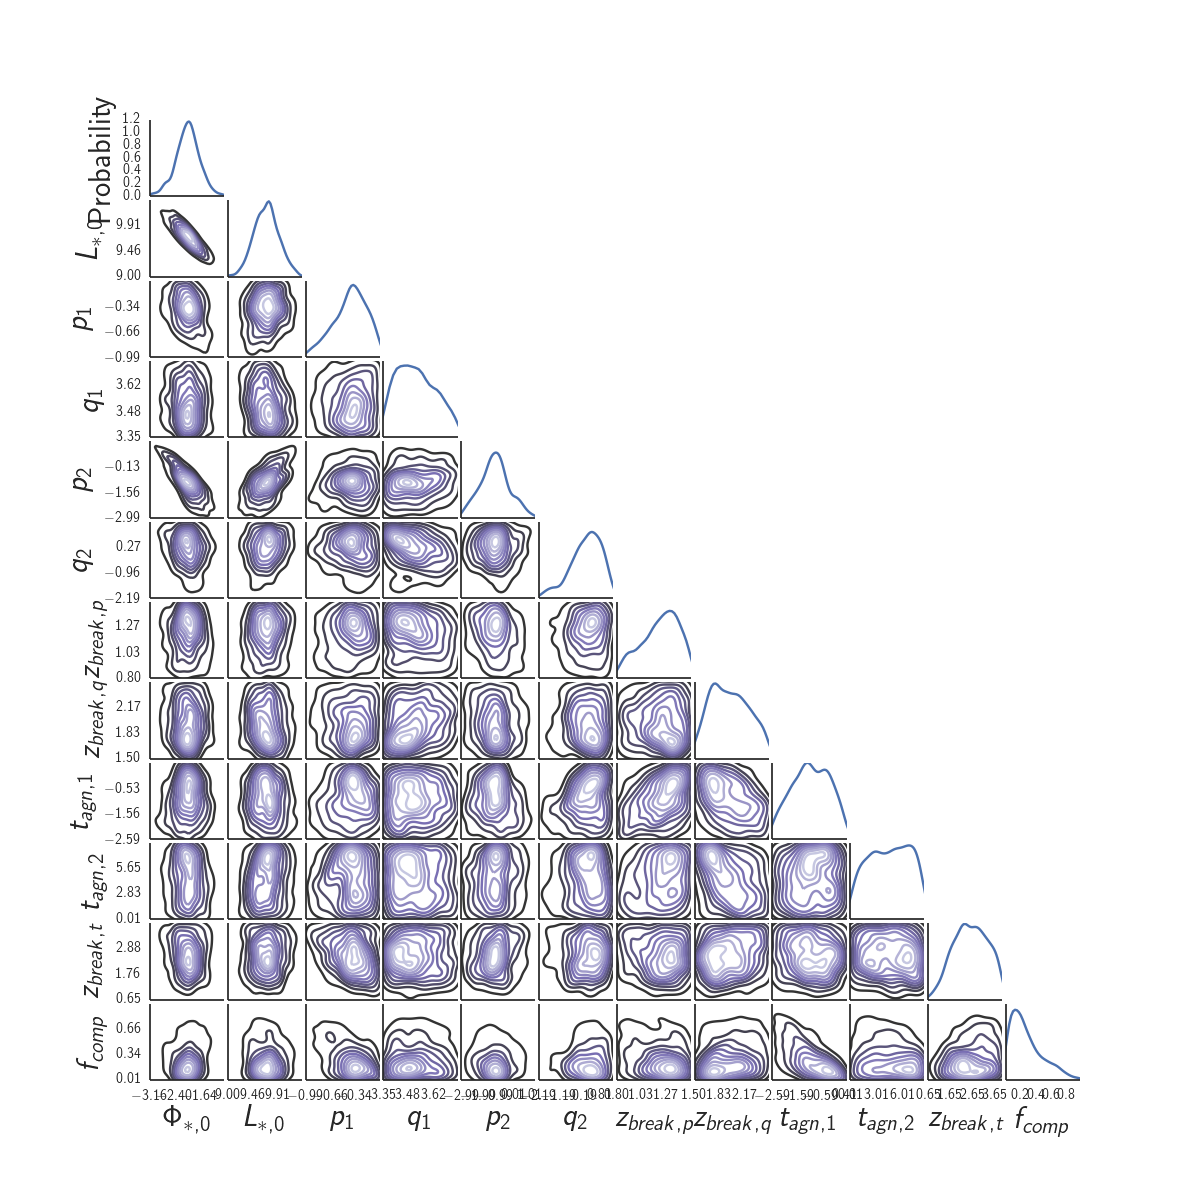
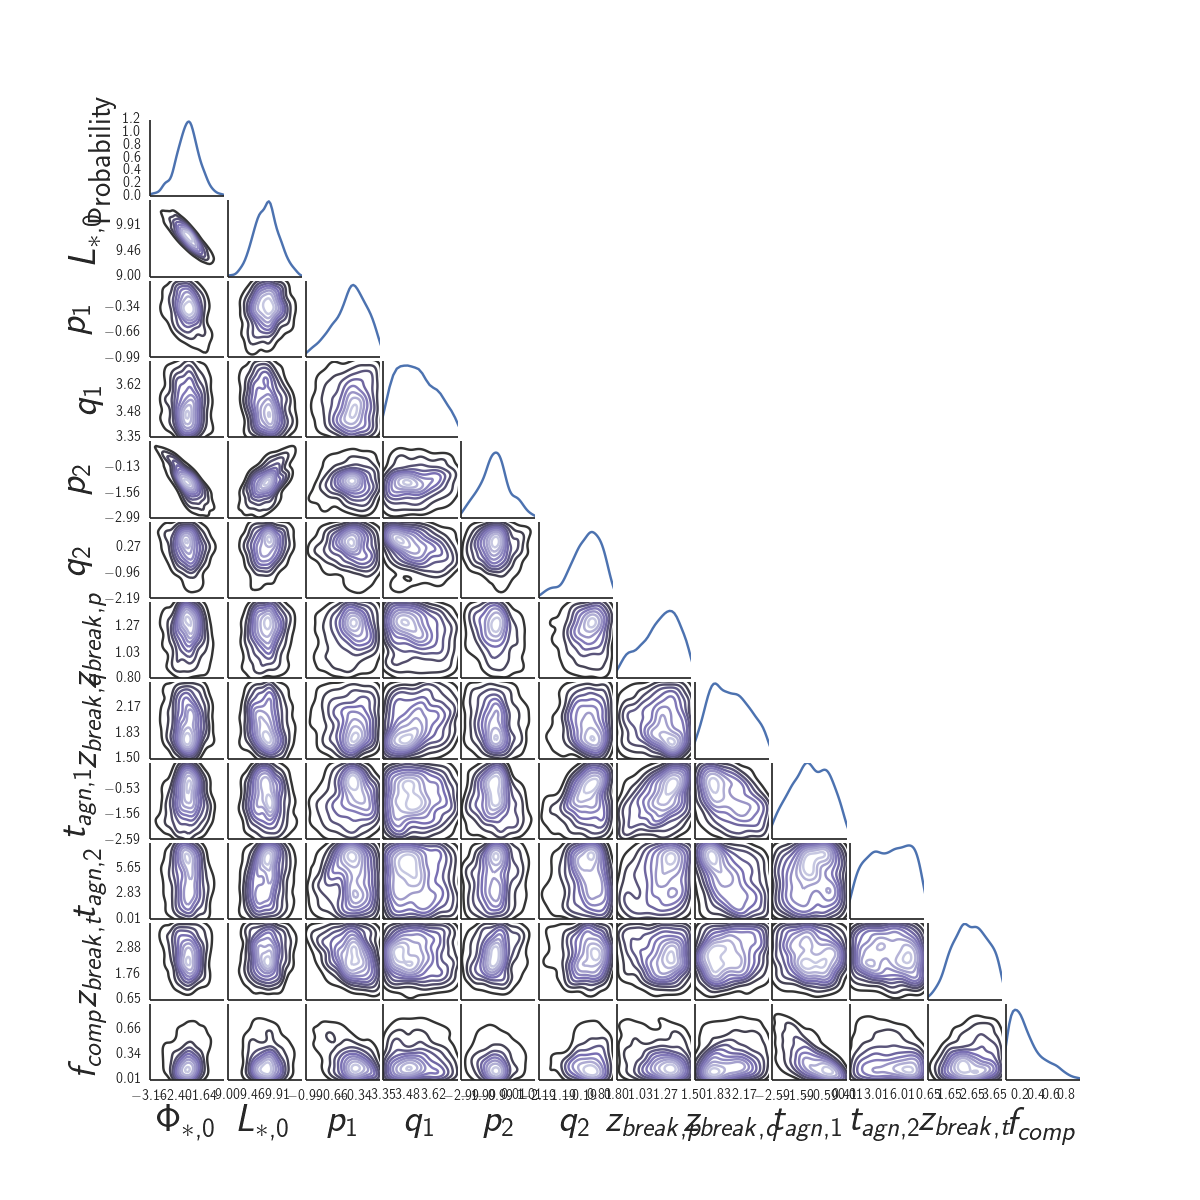
temp

diff --git a/Examples/SPIRE/run_analysis.py b/Examples/SPIRE/run_analysis.py
@@ -71,30 +71,32 @@ elif(field == 2):
     obsfile="/usr/local/surveysim/obs/L2-COSMOS_xID24_DR3.fits"
     #load limits and filters from pre-made model file
     mod.load("/usr/local/surveysim/model/spire_mips_model.fits")
-<<<<<<< HEAD
-    mod.filters[0].compN=2110.4
-    mod.filters[0].compB=0.111
-    mod.filters[0].compM=-0.894
+
+    mod.filters[2].setID("SPIRE_250")
+    mod.filters[1].limit=6.0
+    mod.filters[2].limit=6.0
+
+#<<<<<<< HEAD
+#    mod.filters[0].compN=2110.4
+#    mod.filters[0].compB=0.111
+#    mod.filters[0].compM=-0.894
 
     mod.filters[0].err=12.0 #assume 5sigma limit on the 24um
     mod.filters[1].err=3.0 #assume 250um 1sigma confusion
     mod.filters[2].err=3.0 #assume 250um 1sigma confusion
-=======
-<<<<<<< HEAD
-    # mod.filters[1].limit=0.1
-    # mod.filters[2].limit=0.1
+#=======
+#<<<<<<< HEAD
+#    # mod.filters[1].limit=0.1
+#    # mod.filters[2].limit=0.1
     mod.filters[0].compN=2110.4
     mod.filters[0].compB=0.111
     mod.filters[0].compM=-0.894
-=======
-    mod.filters[0].compN=1.0
-    mod.filters[0].compB=0.01
-    mod.filters[0].compM=0.08
->>>>>>> origin/master
-
-   # mod.filters[1].limit=0.1
-   # mod.filters[2].limit=0.1
->>>>>>> 9e961357219762991788e8d314c93394199dcecf
+#=======
+#    mod.filters[0].compN=1.0
+#    mod.filters[0].compB=0.01
+#    mod.filters[0].compM=0.08
+#>>>>>>> origin/master
+#>>>>>>> 9e961357219762991788e8d314c93394199dcecf
 else:
     raise ValueError("Invalid field")
 
@@ -292,8 +294,8 @@ if(model == 4 and lfForm == 0 and field == 2):
     simname="O"
 
 
-mfile=simname+"6_model.fits"
-outfile=simname+"6_output.fits"
+mfile=simname+"test_model.fits"
+outfile=simname+"test_output.fits"
 
 
 #parameters below should be the same regardless of model
@@ -315,9 +317,14 @@ mod.params['Alpha'].fixed=1
 mod.params['Beta'].value=0.5
 mod.params['Beta'].fixed=1
 
-mod.params['Phi0'].value=-2.239
-mod.params['Phi0'].pmin=-3.239
-mod.params['Phi0'].pmax=-0.739
+#mod.params['Phi0'].value=-2.239
+#mod.params['Phi0'].pmin=-3.239
+#mod.params['Phi0'].pmax=-0.739
+#mod.params['Phi0'].fixed=0
+
+mod.params['Phi0'].value=-2.7
+mod.params['Phi0'].pmin=-2.8
+mod.params['Phi0'].pmax=-2.6
 mod.params['Phi0'].fixed=0
 
 mod.params['L0'].value=9.949
@@ -334,6 +341,7 @@ mod.params['P'].pmin=-1.00
 mod.params['P'].pmax=-0.01
 mod.params['P'].fixed=0
 
+
 #AS-change
 mod.params['P'].pmin=-1.0
 mod.params['P'].max=-0.13
@@ -348,17 +356,27 @@ mod.params['P2'].fixed=0
 #mod.params['P2'].pmax=2
 
 mod.params['Q'].value=3.55
-mod.params['Q'].pmin=3.05
-mod.params['Q'].pmax=5.50
-mod.params['Q'].fixed=0
+#mod.params['Q'].pmin=3.05
+#mod.params['Q'].pmax=5.50
+#mod.params['Q'].fixed=0
 
 #AS-change
 mod.params['Q'].pmin=3.35
 mod.params['Q'].pmax=3.75
 
+#mod.params['Q'].value=3.55
+#mod.params['Q'].pmin=2.84#3.05
+#mod.params['Q'].pmax=4.26#4.2
+mod.params['Q'].fixed=0
+
+#mod.params['Q2'].value=0.80
+#mod.params['Q2'].pmin=-2.20
+#mod.params['Q2'].pmax=1.50
+#mod.params['Q2'].fixed=0
+
 mod.params['Q2'].value=0.80
-mod.params['Q2'].pmin=-2.20
-mod.params['Q2'].pmax=1.50
+mod.params['Q2'].pmin=0.64#0.10
+mod.params['Q2'].pmax=0.96#1.50
 mod.params['Q2'].fixed=0
 
 mod.params['zbp'].value=1.00
@@ -366,10 +384,20 @@ mod.params['zbp'].pmin=0.8
 mod.params['zbp'].pmax=1.5
 mod.params['zbp'].fixed=0
 
-mod.params['zbq'].value=2.0
-mod.params['zbq'].pmin=1.50
-mod.params['zbq'].pmax=2.50
-mod.params['zbq'].fixed=0
+#MB-change
+#mod.params['zbp'].value=1.75
+#mod.params['zbp'].pmin=1.40#1.50
+#mod.params['zbp'].pmax=2.10#2.00
+
+#mod.params['zbq'].value=2.0
+#mod.params['zbq'].pmin=1.50
+#mod.params['zbq'].pmax=2.50
+#mod.params['zbq'].fixed=0
+
+#MB-change
+mod.params['zbq'].value=1.75
+mod.params['zbq'].pmin=1.40#1.50
+mod.params['zbq'].pmax=2.10#2.00
 
 mod.filename=mfile
 mod.run(obsfile,outfile=outfile)

diff --git a/trunk/python/OutputFile.py b/trunk/python/OutputFile.py
@@ -453,7 +453,7 @@ class MCMCInfo:
                     if(j == 0):
                         plt.ylabel("Probability",fontsize=22)
                     else:
-                        plt.setp( plt.gca().get_yticklabels(), fontsize=22, visible=False)
+                        plt.setp( plt.gca().get_yticklabels(), fontsize=28, visible=False)
                 elif(i > j):
                     x=self.Parameters[pnames[j]]
                     y=self.Parameters[pnames[i]]
@@ -480,14 +480,14 @@ class MCMCInfo:
                     yticks=np.around(np.arange(start, end, stepsize),2)
                     ax.yaxis.set_ticks(yticks)
                     if(j == 0):
-                        plt.ylabel(axisLabel(pnames[i]),fontsize=22)
+                        plt.ylabel(axisLabel(pnames[i]),fontsize=28)
                     else:
                         plt.setp( plt.gca().get_yticklabels(), visible=False)
                     plt.ylim(start,end)
                 if(i == (len(pnames)-1)):
-                    plt.xlabel(axisLabel(pnames[j]),fontsize=22)
+                    plt.xlabel(axisLabel(pnames[j]),fontsize=28)
                 else:
-                    plt.setp( plt.gca().get_xticklabels(), fontsize=22,visible=False)
+                    plt.setp( plt.gca().get_xticklabels(), fontsize=28,visible=False)
         #add legend with best-fit parameter values
         #ax.annotate('Best-fit values:', xy=(.7, .8),  xycoords='figure fraction',
         #        horizontalalignment='center', verticalalignment='center',size=20)
@@ -572,7 +572,7 @@ class OutputFile:
 
     def __init__(self,filename):
         fnamecore=filename.split('output.fits')[0]
-<<<<<<< HEAD
+#<<<<<<< HEAD
         self.modelfile=fnamecore+'model.fits'
         print self.modelfile
         self.mhdus=fits.open(self.modelfile)
@@ -580,14 +580,14 @@ class OutputFile:
         self.axis1=prihdr['AXIS1']
         self.axis2=prihdr['AXIS2']
         print self.axis1,self.axis2
-=======
+#=======
         #self.modelfile=fnamecore+'_model.fits'
         #self.mhdus=fits.open(self.modelfile)
         #prihdr=self.mhdus[0].header
         #self.axis1=prihdr['AXIS1']
         #self.axis2=prihdr['AXIS2']
         #print self.axis1,self.axis2
->>>>>>> origin/master
+#>>>>>>> origin/master
         self.filename=filename
         self.hdus=fits.open(filename)
         self.images=dict()
